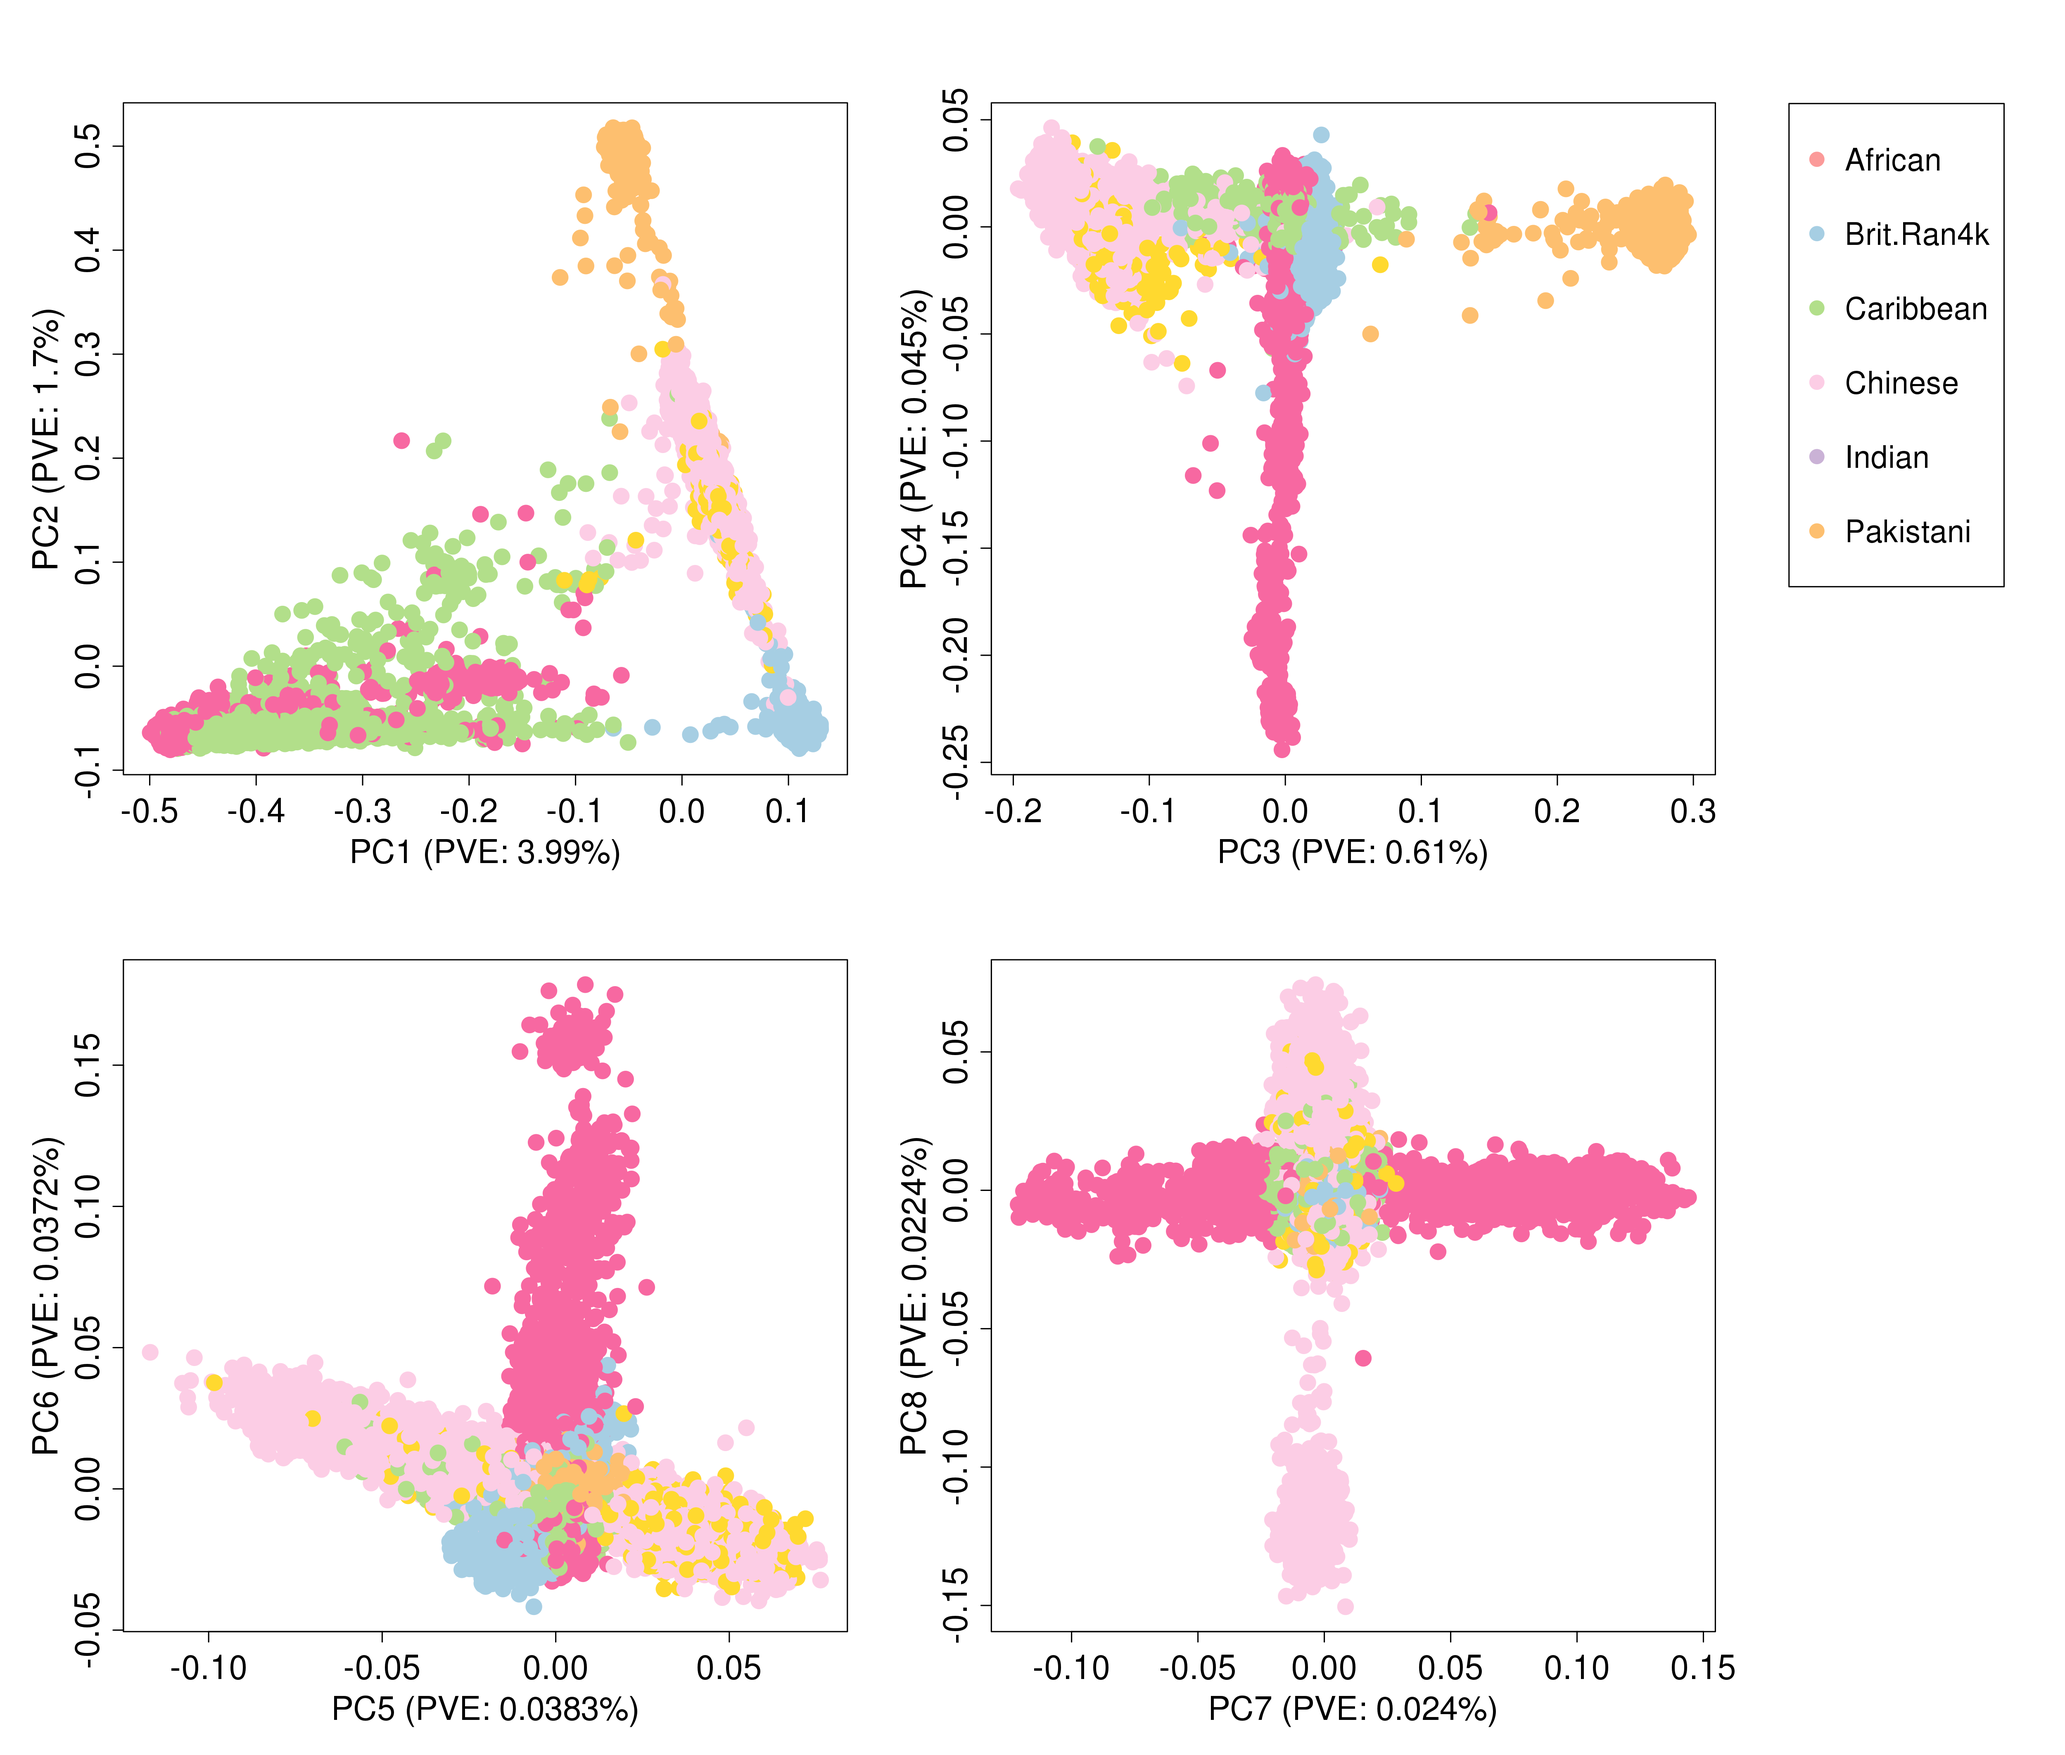
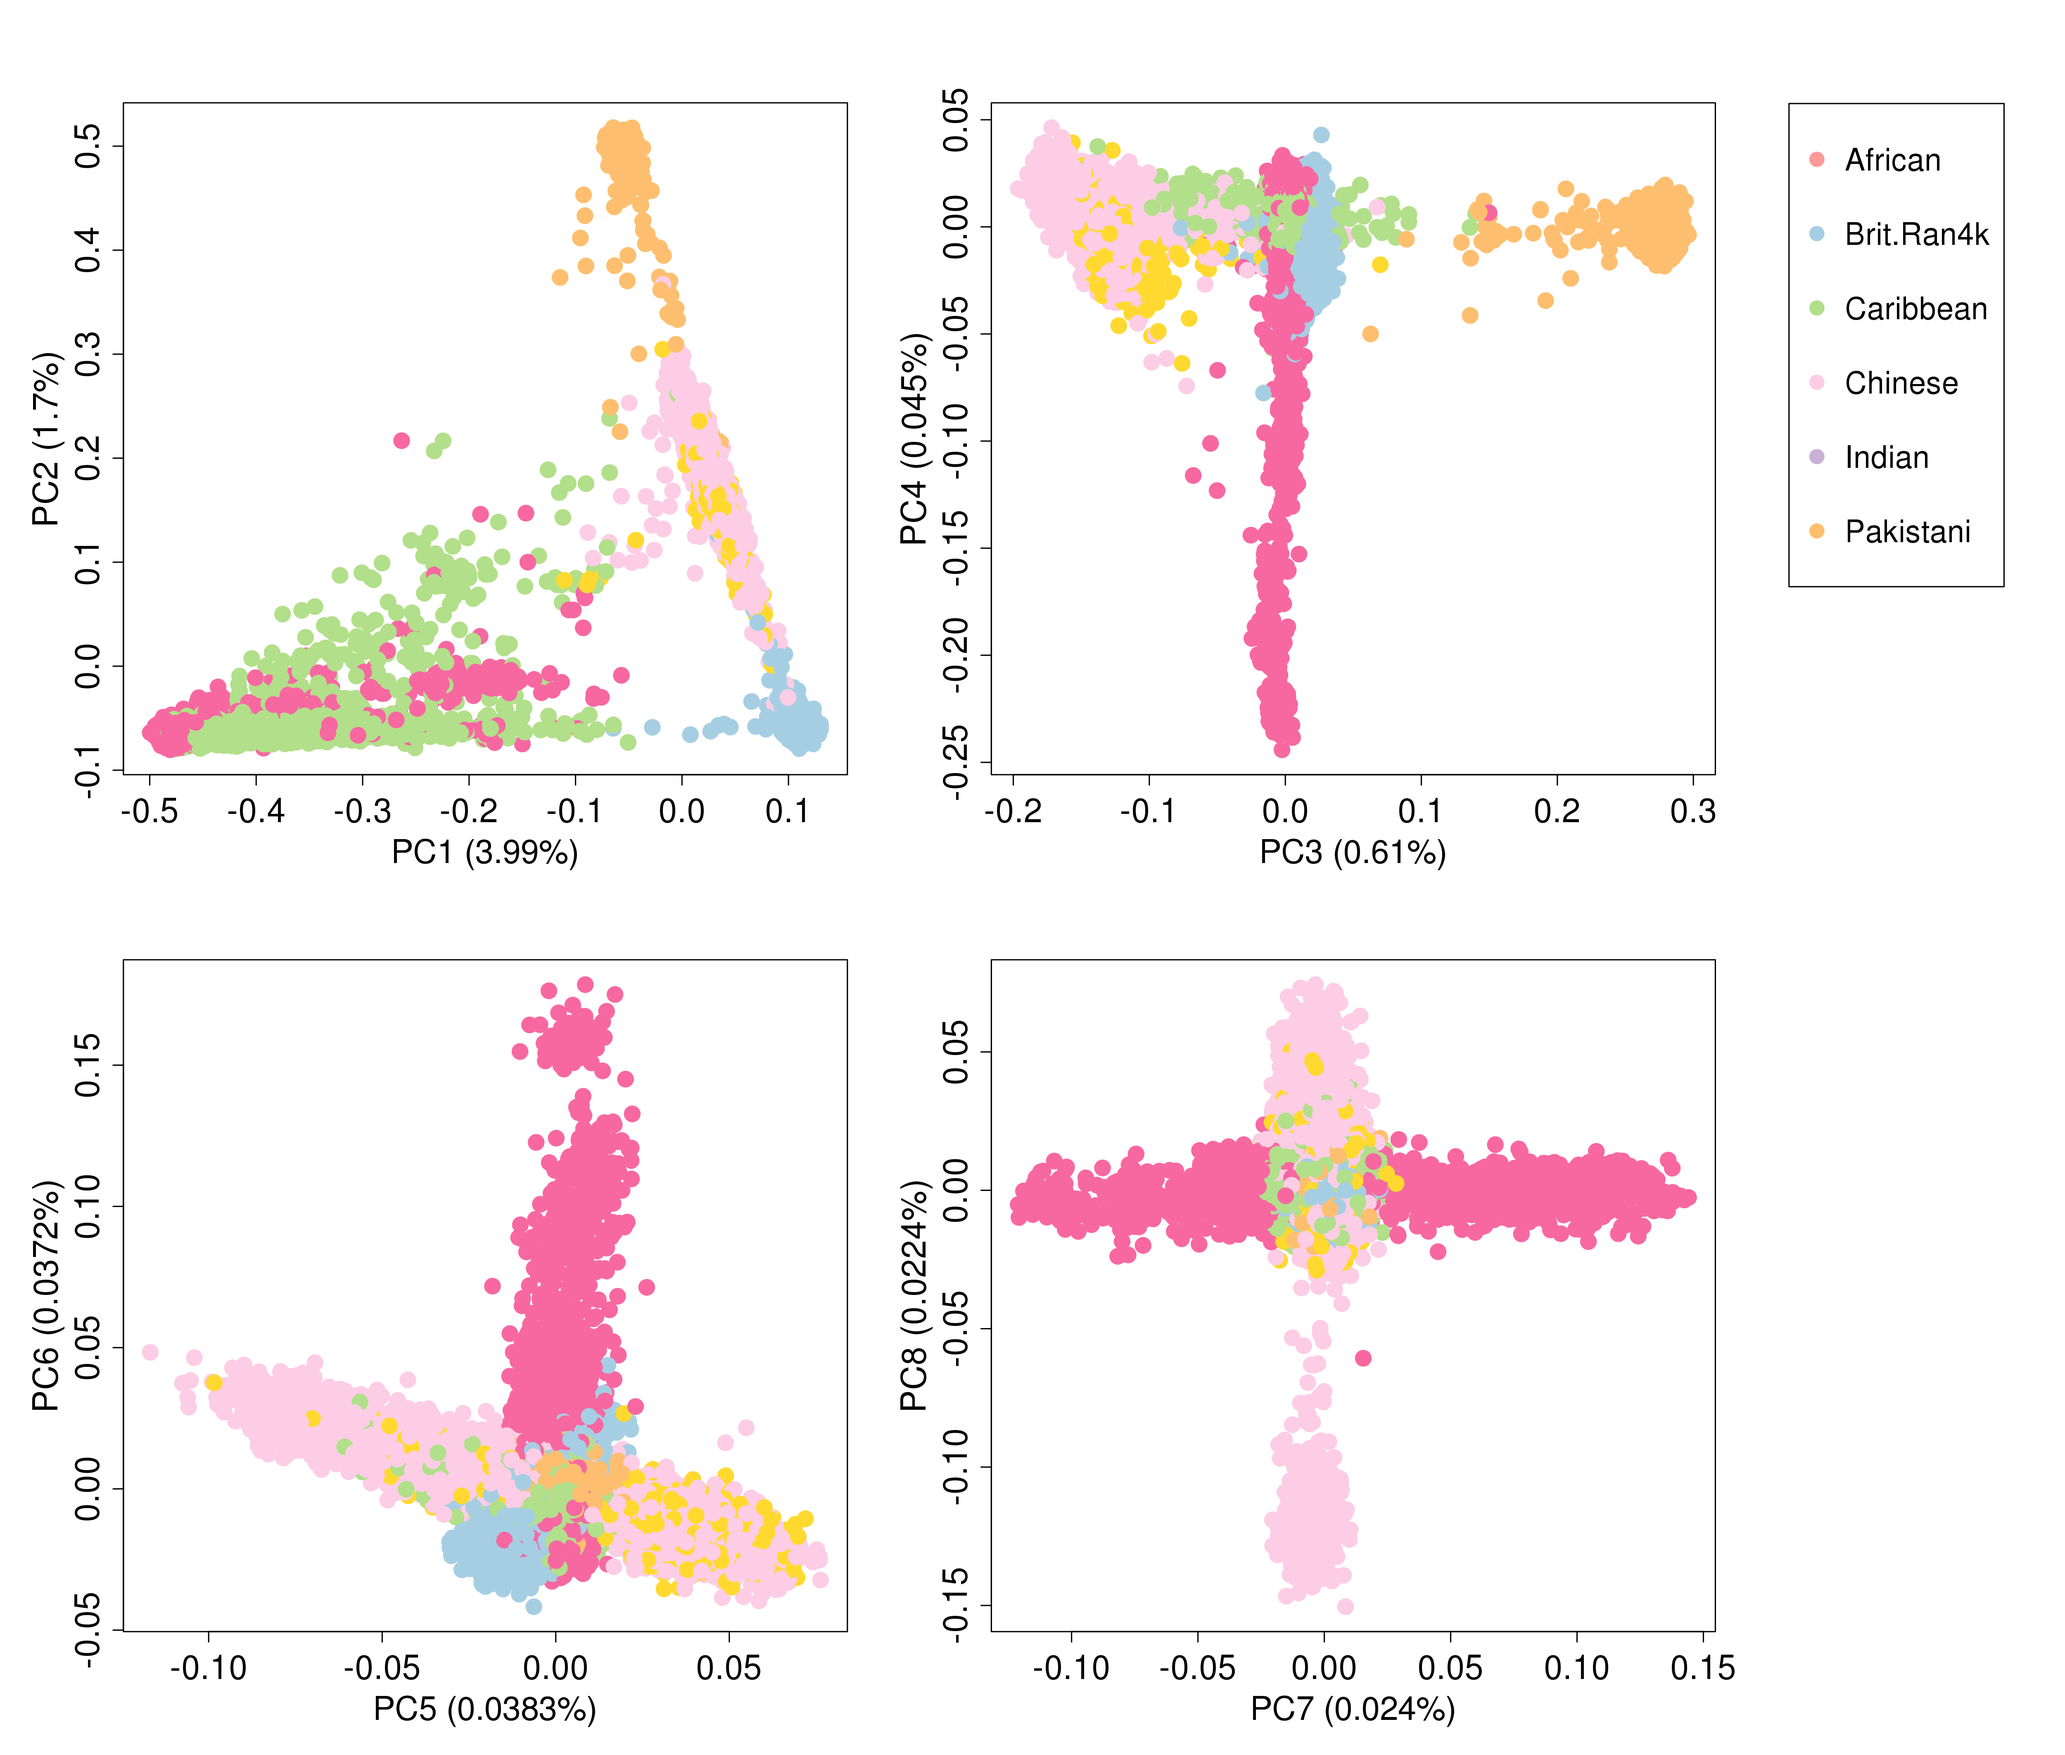
edits (Supplementary Figure: PCA plots)

diff --git a/Main.tex b/Main.tex
@@ -536,10 +536,12 @@ After this first round of QC procedures, we then proceeded to impute our current
 \centering
 \hspace*{-1cm}
 \includegraphics[scale=.4]{Images/Supp/InterPath_Supp_Figure_UKB_PCAPlot_vs2.png}
-\caption[TBD]{\textbf{Global PCA Plots of the UK BioBank subgroups}. The figure shows the top eight global principal components (PCs) of our UKB subgroup dataset plotted against one another: a) PC1 vs. PC2, b) PC3 vs. PC4, c) PC5 vs. PC6, d) PC7 vs. PC8. PCA was conducted using FlashPCA \citep{Abraham2017} and a post-QC, pruned SNP set. Here `Global' PCs refers to PCs calculated from running PCA on the full dataset of all subgroups together jointly. This is in contrast to `local' PCs, which are calculated by running PCA on each subgroup separately. As a result of this difference, global PCs were created similar to the descriptions in `Population subgroups' of Methods and `Population Subgroup Quality Control' of Supplementary Note, but in lieu of running FlashPCA on each subgroup separately, FlashPCA was run on the full dataset together jointly. Global PCs were only used for these plots, and local PCs were used for quality control and as covariates.}
+\caption[TBD]{\textbf{Global PCA Plots of the UK BioBank subgroups}. The figure shows the top eight global principal components (PCs) of our UKB subgroup dataset plotted against one another: a) PC1 vs. PC2, b) PC3 vs. PC4, c) PC5 vs. PC6, d) PC7 vs. PC8. PCA was conducted using FlashPCA \citep{Abraham2017} and a post-QC, pruned SNP set. Here `Global' PCs refers to PCs calculated from running PCA on the full dataset of all subgroups together jointly. This is in contrast to `local' PCs, which are calculated by running PCA on each subgroup separately. As a result of this difference, global PCs were created similar to the descriptions in `Population subgroups' of Methods and `Population Subgroup Quality Control' of Supplementary Note, but in lieu of running FlashPCA on each subgroup separately, FlashPCA was run on the full dataset together jointly. Global PCs were only used for these plots, and local PCs were used for quality control and as covariates. In parentheses next to each PC is the percent variance explained (PVE) by each PC in the underlying covariance matrix.}
 \label{InterPath-Supp-Figure-UKB-subgroups-PCAPlot}
 \end{figure}
 \clearpage
+
+Me: implement figure changes: sramachandran: This is the first supplementary figure cited but it's denoted as \#12. Would be good to get order right. Also I'd like to see proportion of variable explained shown in the axes (e.g., PC1 (XX\%)) and then described in the caption that the percentage of variance explained is denote
 
 \begin{figure}[htbp]
 \centering
